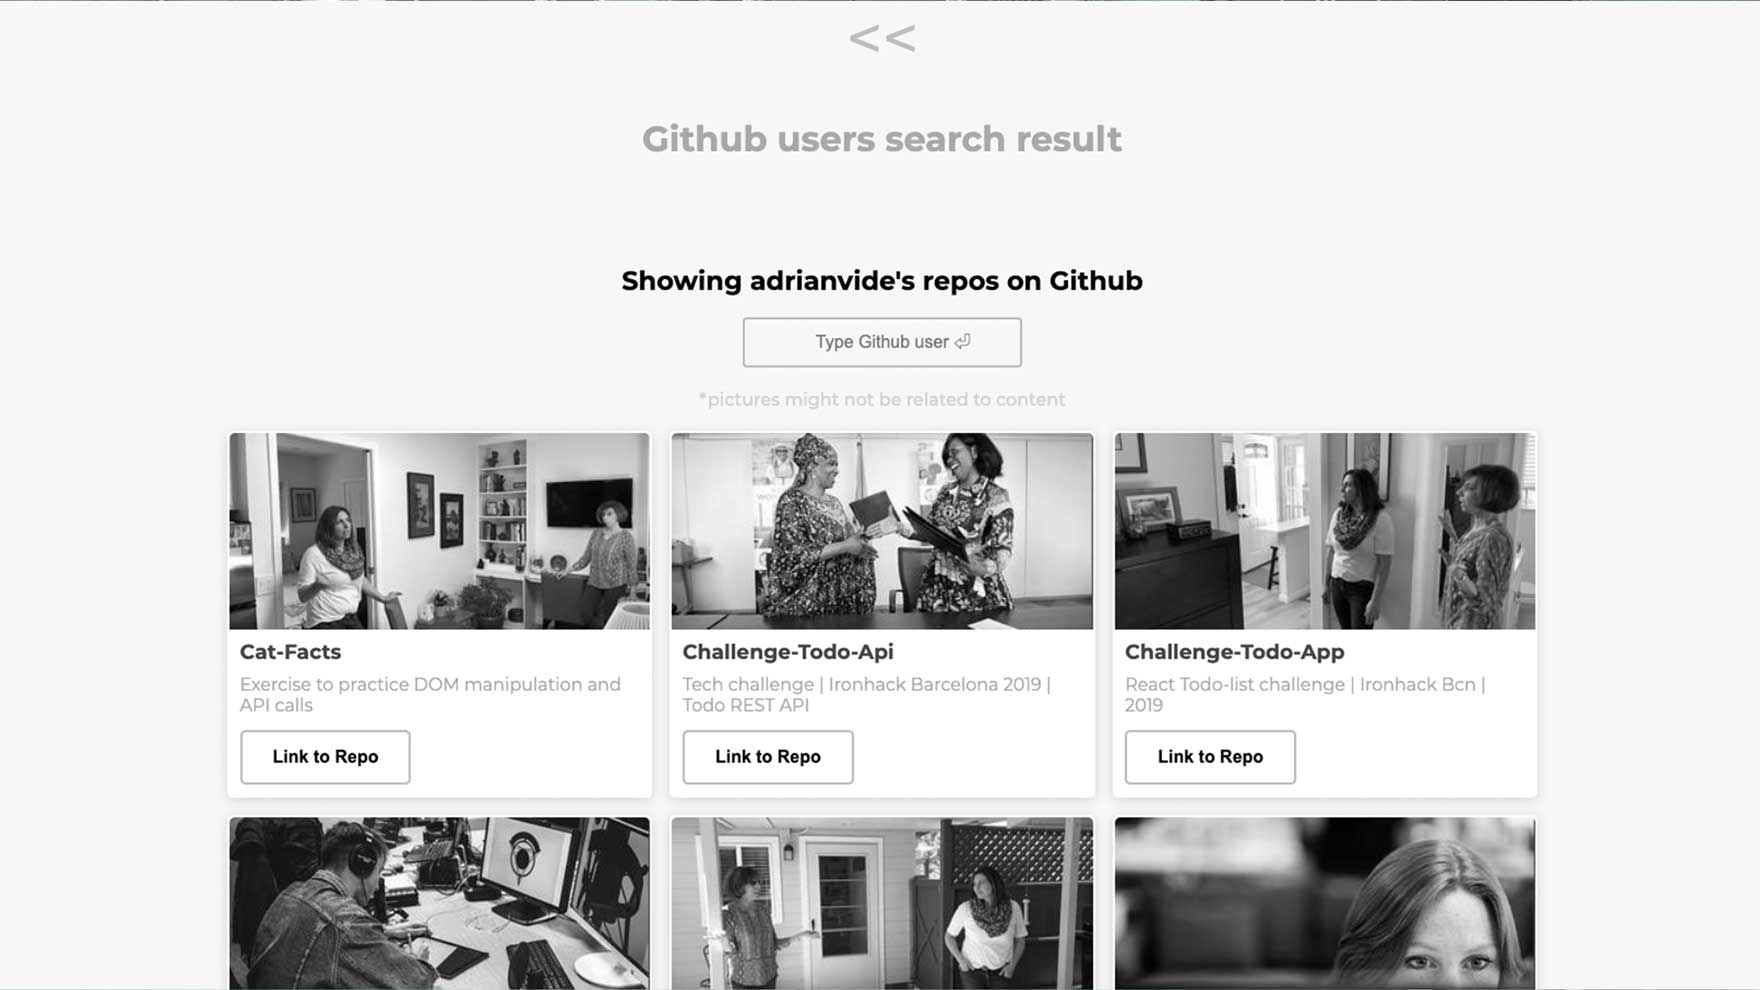
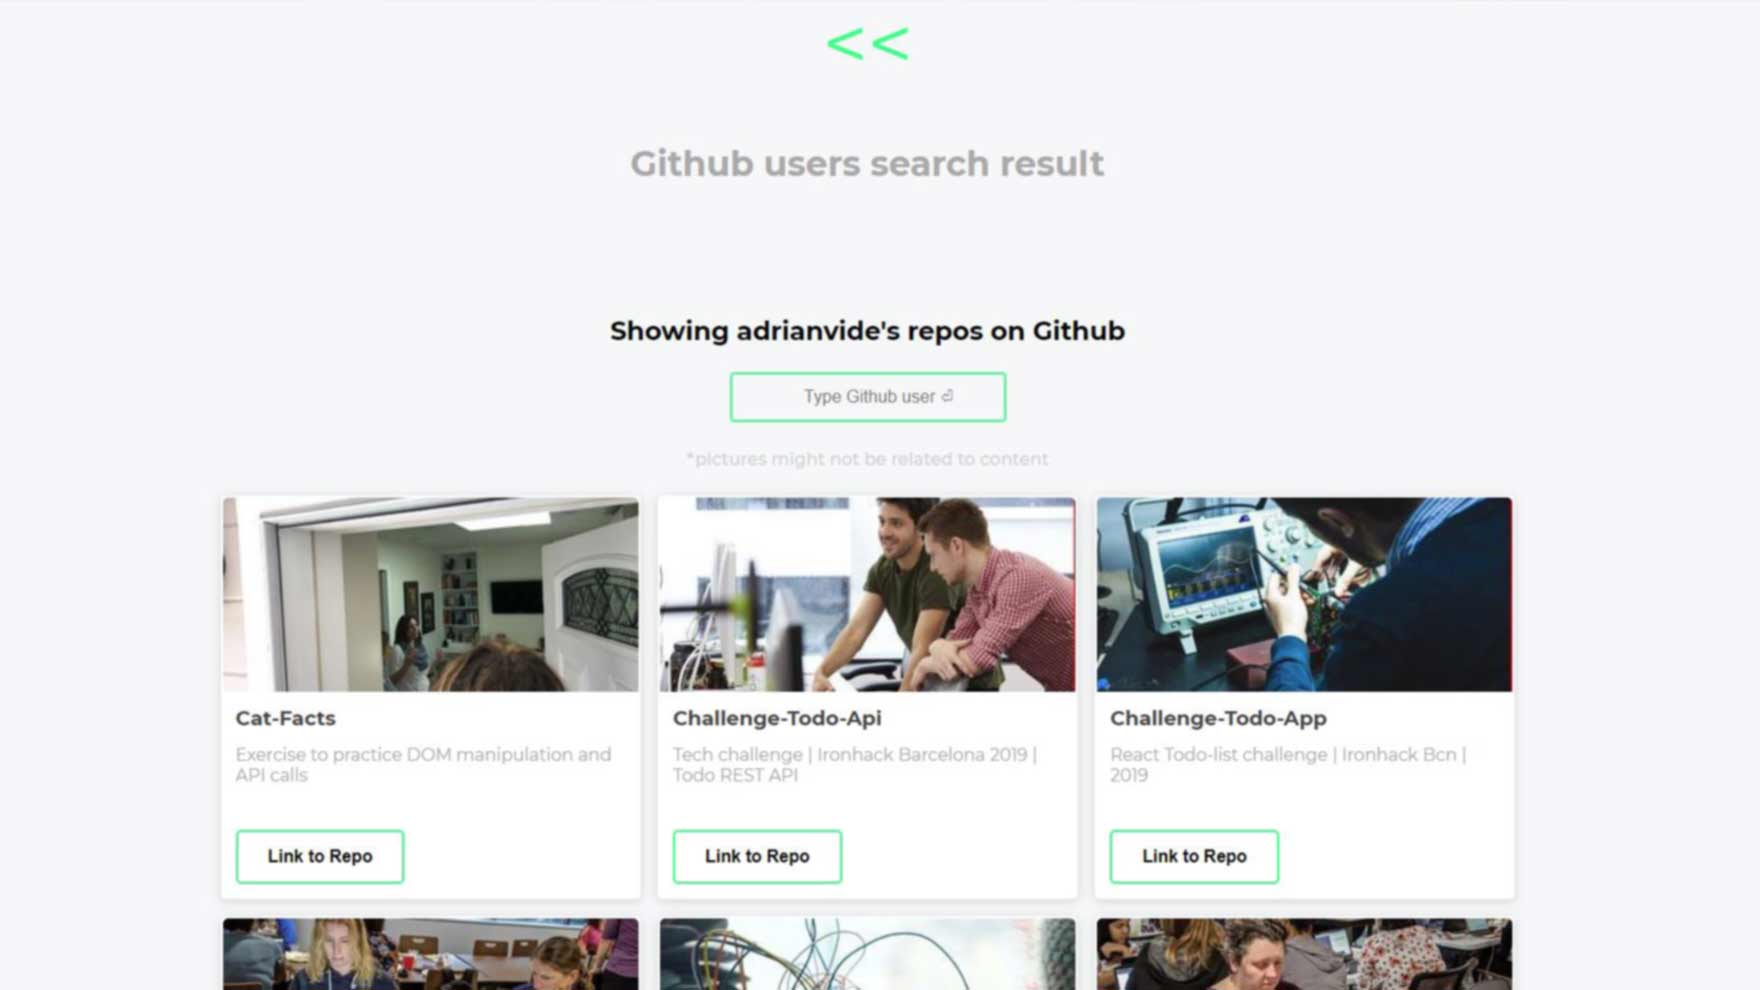
oompaloompa added

diff --git a/src/mock/data.js b/src/mock/data.js
@@ -18,11 +18,11 @@ export const heroData = {
 // ABOUT DATA
 export const aboutData = {
   img: 'me.jpg',
-  paragraphOne:
-    'Hi! I am Adrian Vide Paris, Full-Stack Developer.',
+  paragraphOne: 'Hi! I am Adrian Vide Paris, Full-Stack Developer.',
   paragraphTwo:
     'From my past roles I acquired some expertise in SEO good practices and a taste for a classy/minimalistic design.',
-  paragraphThree: 'With a strong background in a range of digital skills and marketing, I can manage the development process through in its entirety.',
+  paragraphThree:
+    'With a strong background in a range of digital skills and marketing, I can manage the development process through in its entirety.',
   paragraphFour: 'Making things work is what I enjoy the most.',
   resume: 'https://drive.google.com/file/d/1Aqkv8qXSliKcm2tvsnLOR1w9CR-jOnh1/view?usp=sharing', // if no resume, the button will not show up
 };
@@ -33,9 +33,11 @@ export const projectsData = [
     id: uuidv4(),
     img: 'palcony.jpg',
     title: 'Palcony',
-    info: 'As part of the #stayAtHome movement beacause of the Covid 19, Palcony aims to act as a hub for anyone that wants to share any activity with their neighborhood.',
-    info2: 'Publish any kind of event that will take place in your balcony. It will be geo positioned, and visible to your neighbours to join, chat and leave feedback.',
-    techs: ['NodeJS', 'ExpressJS', 'MongoDB', 'Leaflet','Bootstrap', 'Handlebars', 'Git'],
+    info:
+      'As part of the #stayAtHome movement beacause of the Covid 19, Palcony aims to act as a hub for anyone that wants to share any activity with their neighborhood.',
+    info2:
+      'Publish any kind of event that will take place in your balcony. It will be geo positioned, and visible to your neighbours to join, chat and leave feedback.',
+    techs: ['NodeJS', 'ExpressJS', 'MongoDB', 'Leaflet', 'Bootstrap', 'Handlebars', 'Git'],
     url: 'https://palcony.com',
     repo: 'https://github.com/adrianVide/module-2-ironhack', // if no repo, the button will not show up
   },
@@ -43,9 +45,11 @@ export const projectsData = [
     id: uuidv4(),
     img: 'masksrus.jpg',
     title: 'masksRus',
-    info: 'Hard times lead to great oportunities, and this one is no less. Taking advatage (not really, it is a fake shop) of the situational? world pandemic.',
-    info2: 'ReactJS based eCommerce where you can register, login, add to cart or wishlist and explore the never-ending universe of the masks. (mobile)',
-    techs: ['ReactJS', 'NodeJS', 'ExpressJS', 'MongoDB','Bootstrap', 'Git'],
+    info:
+      'Hard times lead to great oportunities, and this one is no less. Taking advatage (not really, it is a fake shop) of the situational? world pandemic.',
+    info2:
+      'ReactJS based eCommerce where you can register, login, add to cart or wishlist and explore the never-ending universe of the masks. (mobile)',
+    techs: ['ReactJS', 'NodeJS', 'ExpressJS', 'MongoDB', 'Bootstrap', 'Git'],
     url: 'https://masks-r-us.firebaseapp.com/',
     repo: 'https://github.com/unai6/Masks-r-us-client-side', // if no repo, the button will not show up
   },
@@ -54,7 +58,8 @@ export const projectsData = [
     img: 'todo.jpg',
     title: 'Todo list',
     info: 'Just in case you are as forgetful as I am (or half) I created this todo list.',
-    info2: 'Created with ReactJS and Hooks, and connected to a MongoDB database through NodeJS, with some Google-feel styling. Plus, it grabs an image related to the title of each task from an external API.',
+    info2:
+      'Created with ReactJS and Hooks, and connected to a MongoDB database through NodeJS, with some Google-feel styling. Plus, it grabs an image related to the title of each task from an external API.',
     techs: ['ReactJS', 'NodeJS', 'ExpressJS', 'MongoDB', '3rd Party APIs', 'Materialize', 'Git'],
     url: 'https://todo.adrianvp.com',
     repo: 'https://github.com/adrianVide/challenge-todo-app', // if no repo, the button will not show up
@@ -63,21 +68,35 @@ export const projectsData = [
     id: uuidv4(),
     img: 'sun.jpg',
     title: 'U there, sun?',
-    info: 'No more disapointment when you arrive to the beach and it is raining... Just in case you could not notice in advance this tool will help you.',
-    info2: 'A simple yet useful weather checker through a 3rd party API that let you search for any city in the world and grab its picture from another API.',
+    info:
+      'No more disapointment when you arrive to the beach and it is raining... Just in case you could not notice in advance this tool will help you.',
+    info2:
+      'A simple yet useful weather checker through a 3rd party API that let you search for any city in the world and grab its picture from another API.',
     techs: ['HTML', 'CSS', 'JavaScript', '3rd party API', 'Git'],
     url: 'https://sun.adrianvp.com',
     repo: 'https://github.com/adrianVide/project-IronHack-Module-1', // if no repo, the button will not show up
   },
   {
     id: uuidv4(),
-    img: 'githubusers.jpg',
+    img: 'githubusers2.jpg',
     title: 'Github user search and display',
-    info: 'A tool that searches on Github API for users and displays their repositories. If the user does not exist/has no repos, returns different messages. The plain slider was added for aesthetics :)',
+    info:
+      'A tool that searches on Github API for users and displays their repositories. If the user does not exist/has no repos, returns different messages. The plain slider was added for aesthetics :)',
     info2: 'All under the surveillance of Node and Express.',
     techs: ['NodeJS', 'ExpressJS', '3rd Party APIs', 'Git'],
     url: 'https://githubusers.adrianvp.com',
     repo: 'https://github.com/adrianVide/jfdtt', // if no repo, the button will not show up
+  },
+  {
+    id: uuidv4(),
+    img: 'oompaloompa.JPG',
+    title: 'Oompa Loompa workers',
+    info:
+      'A tool to help the Chocolate Factory HR team to list and filter their Oompa Loompa workers. Storing the information in cache for 24hrs to avoid too many requests to the API. Endless scroll for smoother usability.',
+    info2: 'All working on the front end with ReactJS.',
+    techs: ['ReactJS', '3rd Party APIs', 'Git', 'Endless Scroll', 'Custom Cache usage'],
+    url: 'https://oompaloompa.adrianvp.com',
+    repo: 'https://github.com/adrianVide/napp', // if no repo, the button will not show up
   },
 ];
 
@@ -87,13 +106,12 @@ export const contactData = {
   btn: 'email',
   email: 'hi@adrianvp.com',
   phone: 'tel:+34 686478847',
-  showPhone: '+34 686478847'
+  showPhone: '+34 686478847',
 };
 
 // FOOTER DATA
 export const footerData = {
   networks: [
-  
     {
       id: uuidv4(),
       name: 'linkedin',
